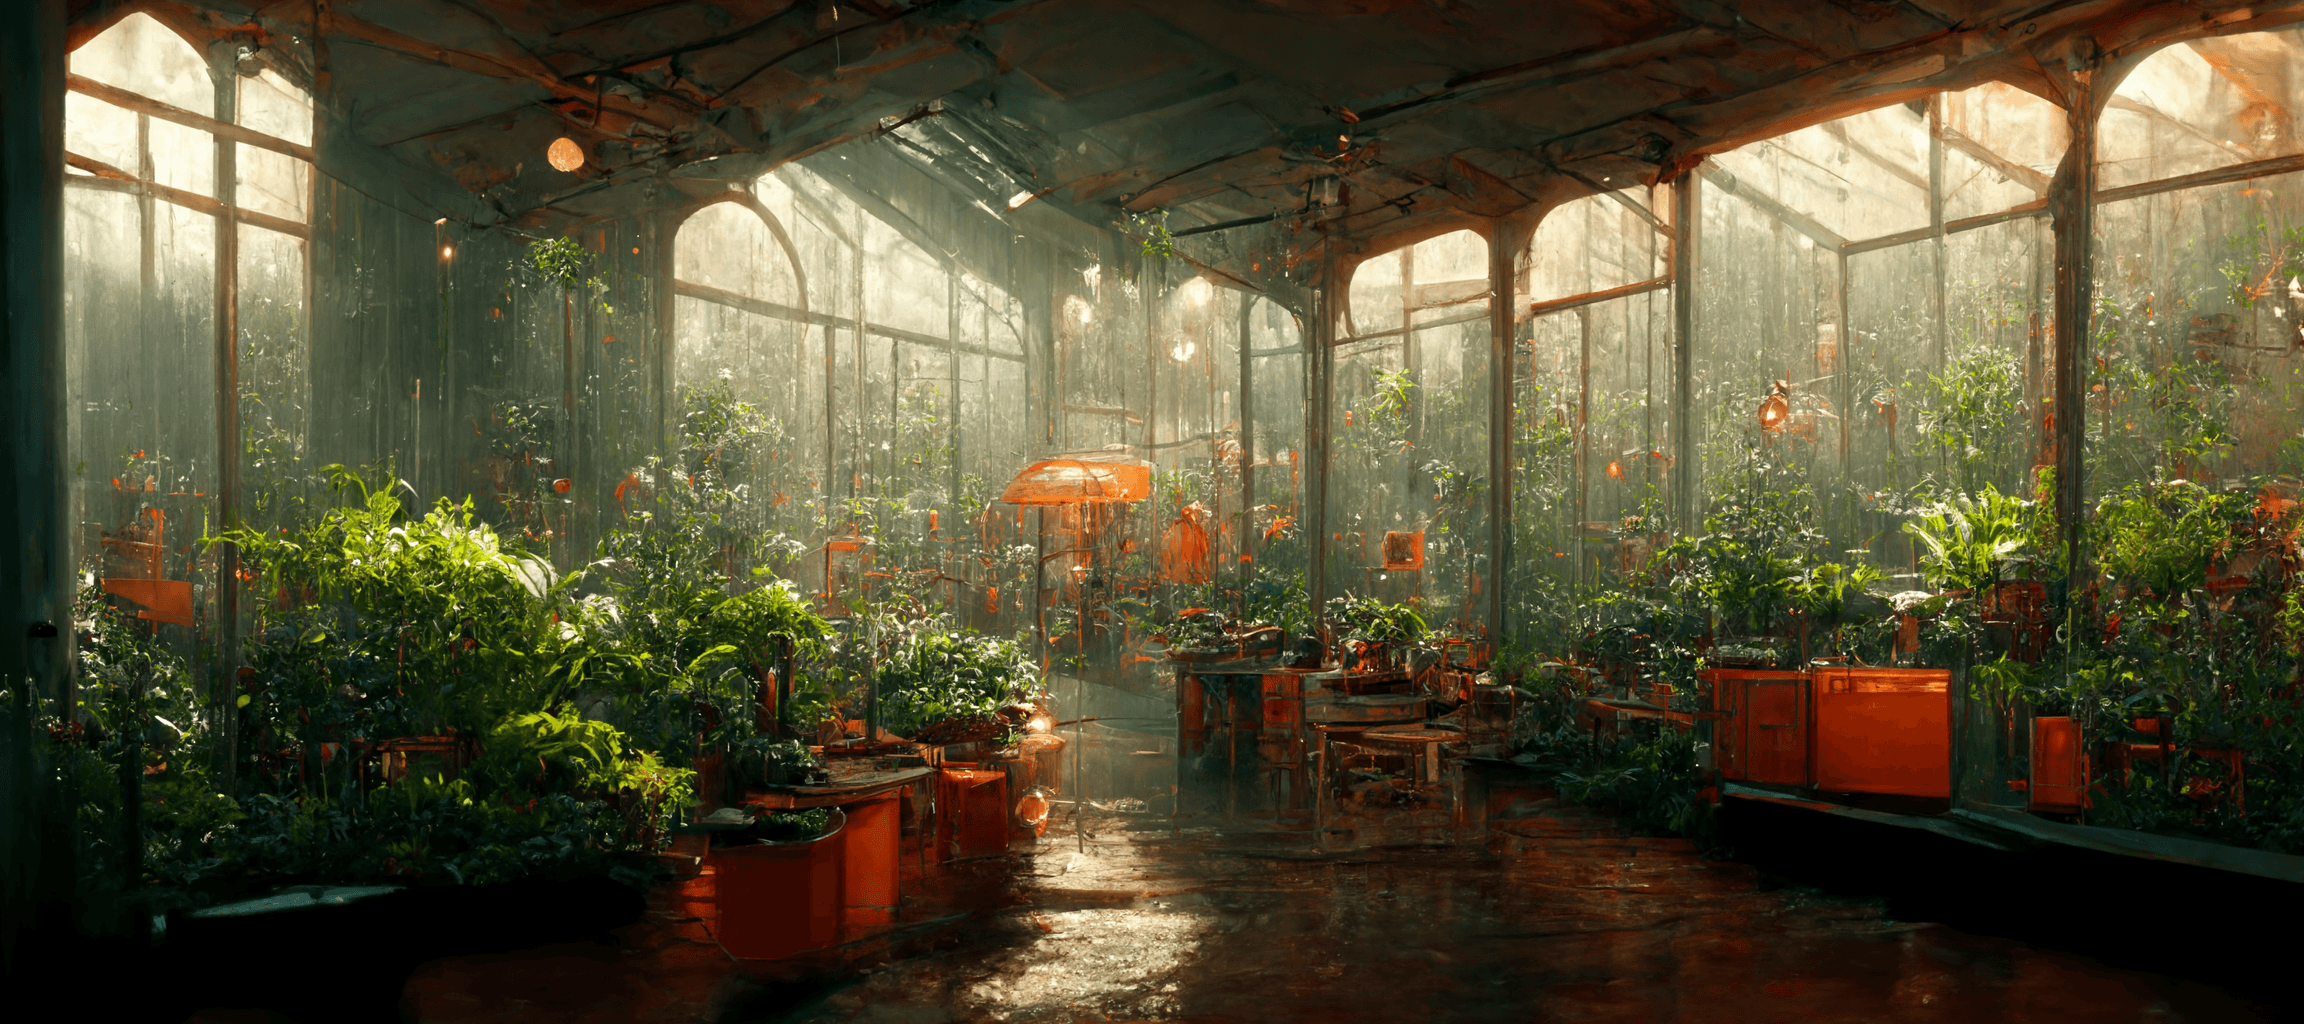
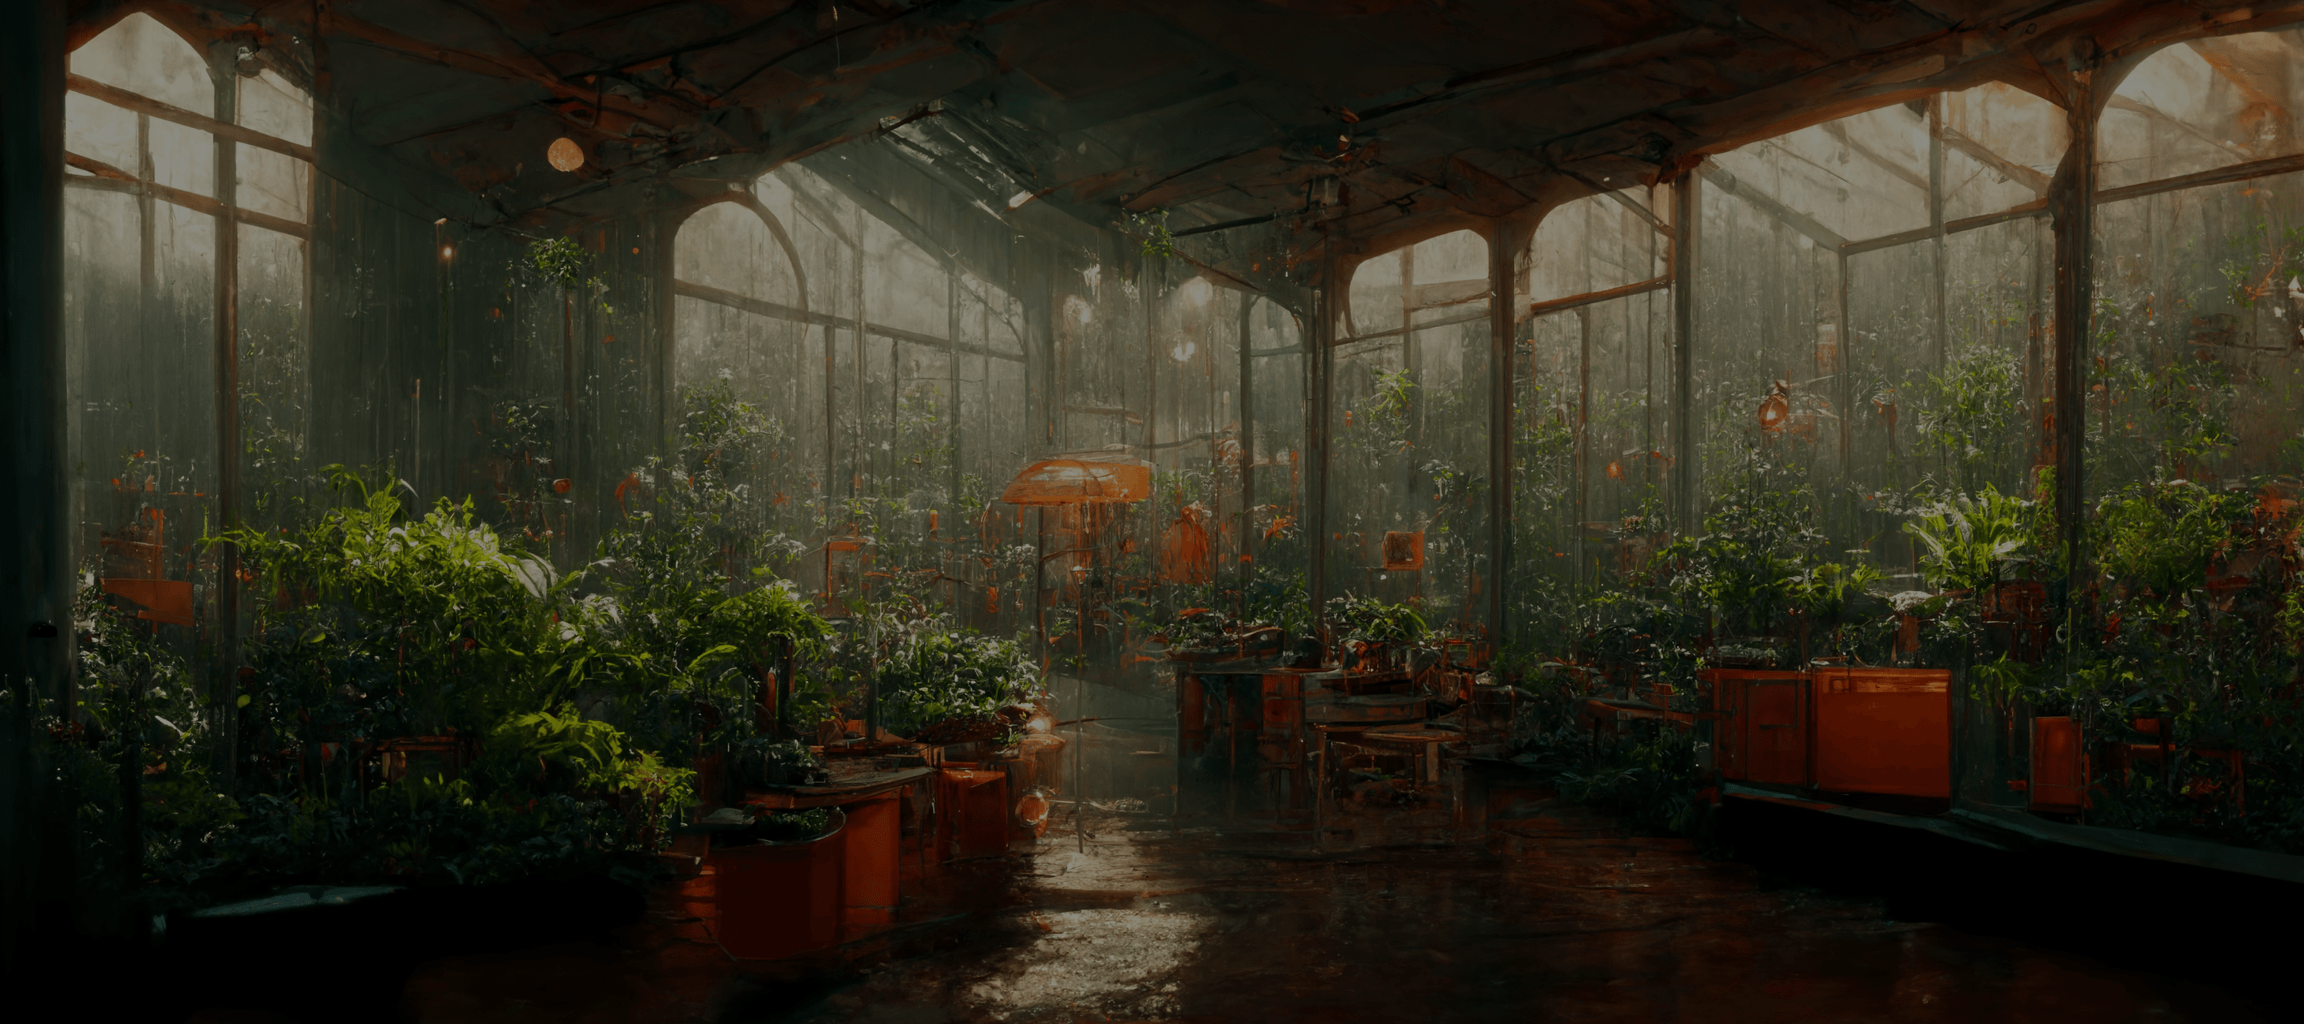
background image darken

diff --git a/src/lib/components/landing/Features.svelte b/src/lib/components/landing/Features.svelte
@@ -10,7 +10,7 @@ let animated = false;
     class="features-wrapper">
     {#if animated}
 	<p transition:fade={{duration: 300}}>
-	    We’re a global design firm with colleagues spanning four continents creating experiences that amplify the joy felt in shared human moments.
+	    We're a small group that want to revolutionize how we grow and take care of our plants encouraging sustainable behavior.
 	</p>
     {/if}
 </div>
